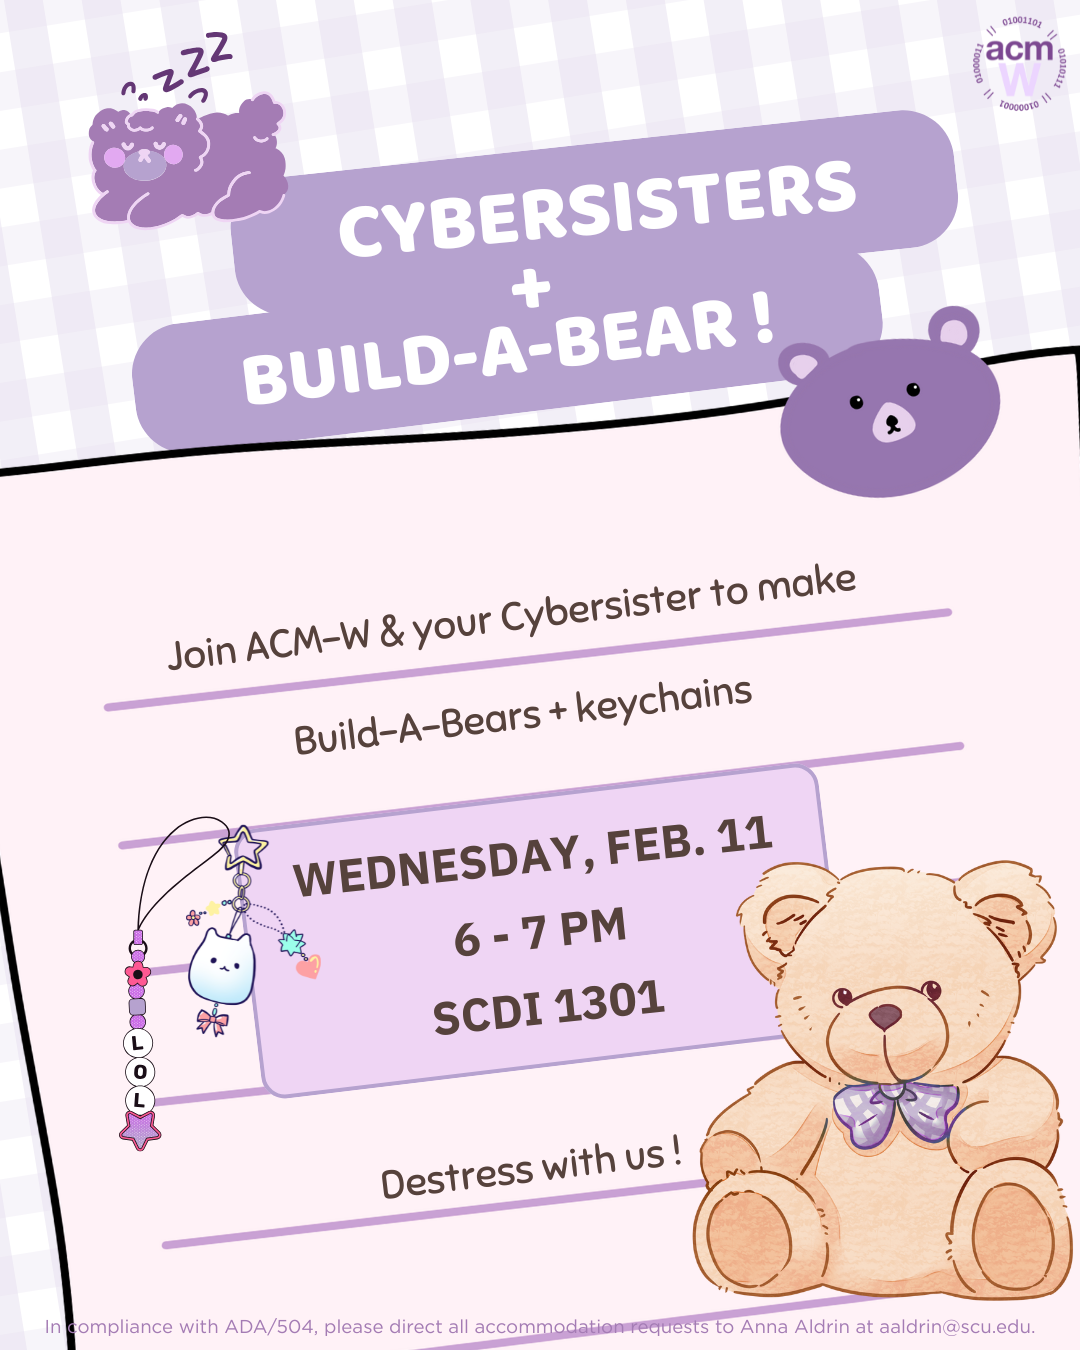
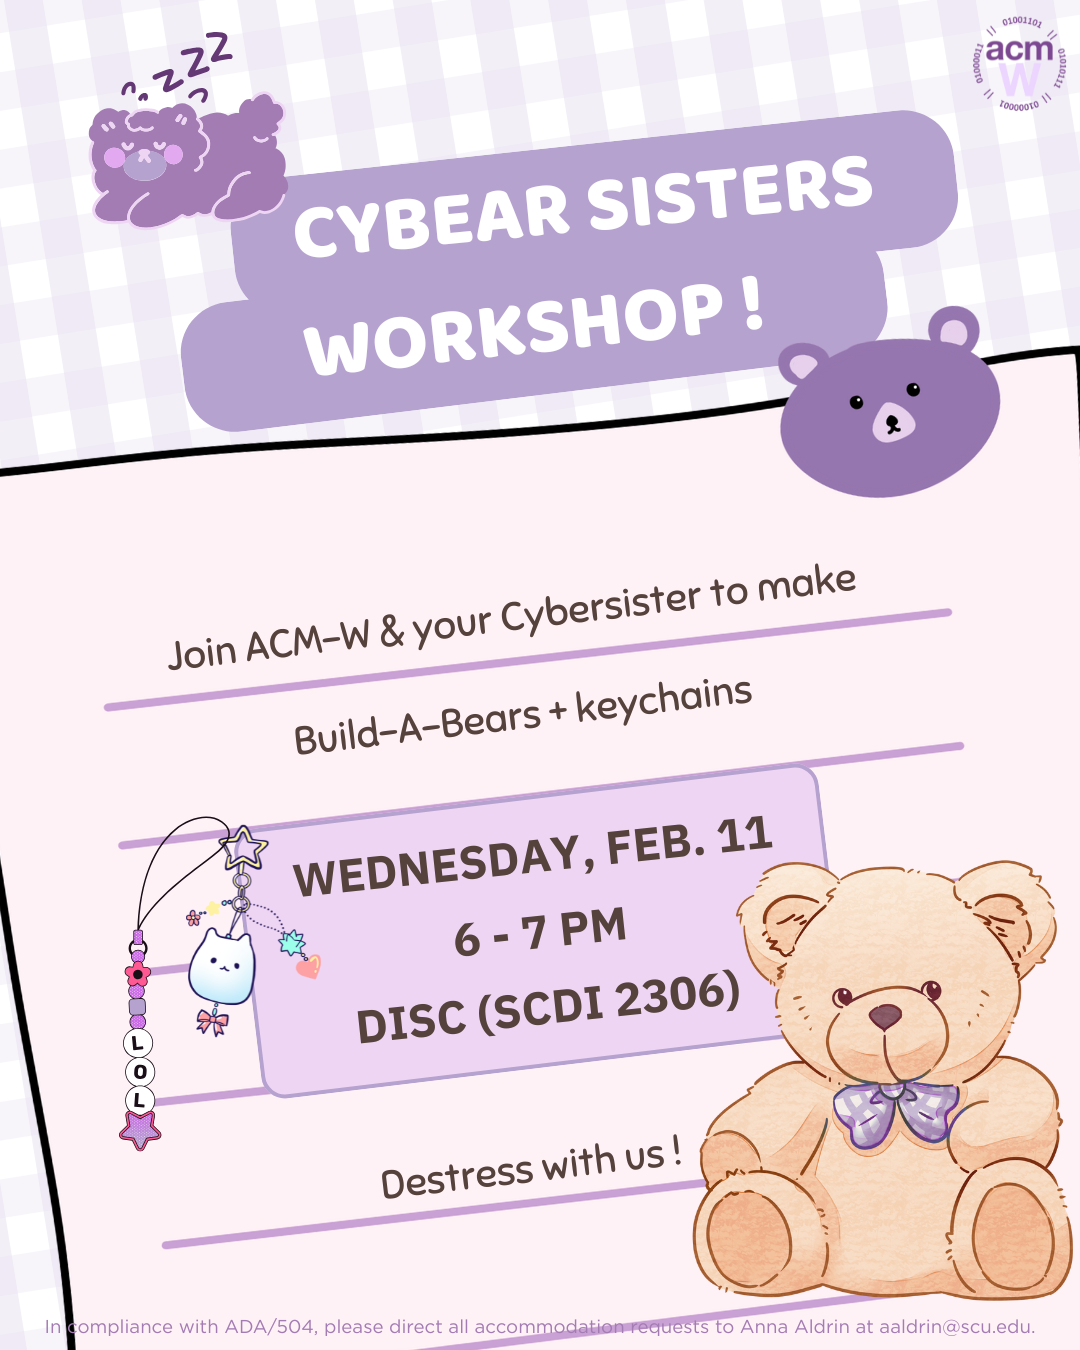
flyer update

Changed region(s): [[0.1222, 0.0933, 0.825, 0.3422], [0.3361, 0.7156, 0.7028, 0.7778], [0.7944, 0.1867, 0.825, 0.2489]]

diff --git a/src/pages/Home.js b/src/pages/Home.js
@@ -4,7 +4,7 @@ import image2 from '../assets/boardpic.png';
 import image3 from '../assets/h4hPhoto1.jpg';
 import image4 from '../assets/groupPic1.jpeg';
 import image5 from '../assets/acmAcmwPhoto.jpeg';
-import image6 from '../assets/buildabear.png';
+import image6 from '../assets/Buildabear.png';
 import React, { useRef } from 'react';
 
 
@@ -57,9 +57,9 @@ const Home = () => {
       <div ref={eventsRef} className="upcomingeventbox">
         <h1>UPCOMING EVENTS</h1>
         <div className="info">
-          <p>Cybersisters + Build-a-Bear</p>
+          <p>Cybersisters Workshop</p>
           <p>Wednesday, Feb 11</p>
-          <p>Location: SCDI 1301</p>
+          <p>Location: DISC (SCDI 2306)</p>
         </div>
         <img src={image6} alt="upcoming event" className="upcomingimage" />
       </div>
